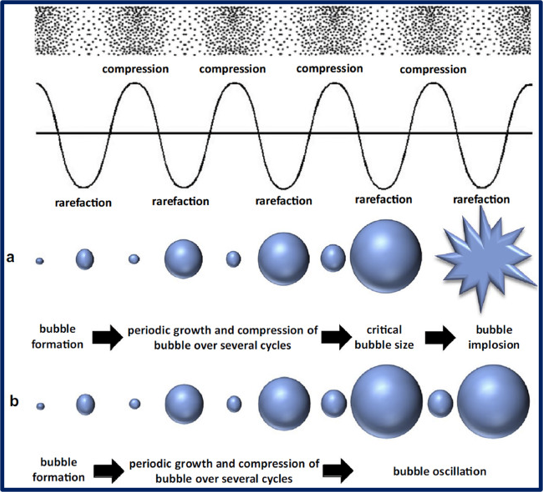
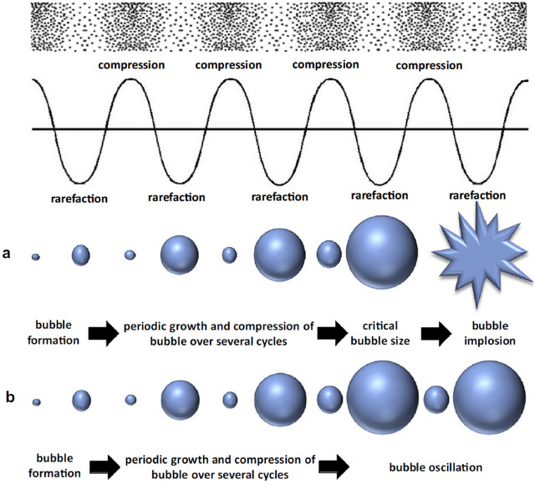
fixed reference and removed figure borders

diff --git a/_pages/about.md b/_pages/about.md
@@ -15,8 +15,8 @@ Generally, I am interested in the various scales of physical and chemical phenom
 <br>
 Below is a representation of some samples of my research and where they are located in the spectrum of length and time scales.<br>
 <br>
-![AG-length-time-scales-spectrum](../images/AG-length-time-scales-spectrum_border.png "AG research overlaid on the time-length spectrum")<br>
-Figure 1. AG's research overlaid on the length-time spectrum.
+![AG-length-time-scales-spectrum](../images/AG-length-time-scales-spectrum.png "AG research overlaid on the time-length spectrum")<br>
+<b>Figure 1.</b> AG's research overlaid on the length-time spectrum.
 
 ## Future Research
 ### Biological Liquid Crystals
@@ -27,7 +27,7 @@ Longitudinal propagating acoustic waves in liquids lead to oscillatory behaviour
 This discipline has applications in multiple engineering systems, for example, viscosity reduction in petroleum fluids in the oil and gas industry, and chemical processing of soft matter like polymers, food, and pharmaceuticals processing[10,11–14].<br>
 
 ![Acoustic cavitation](../images/acoustic_cavitation.png "Acoustic cavitation and bubble dyanamics")<br>
-Figure 2. Representation of acoustic cavitation, bubble dynamics, and bubble implosion[].<br>
+<b>Figure 2.</b> Representation of acoustic cavitation, bubble dynamics, and bubble implosion[15].<br>
 
 
 ### References
